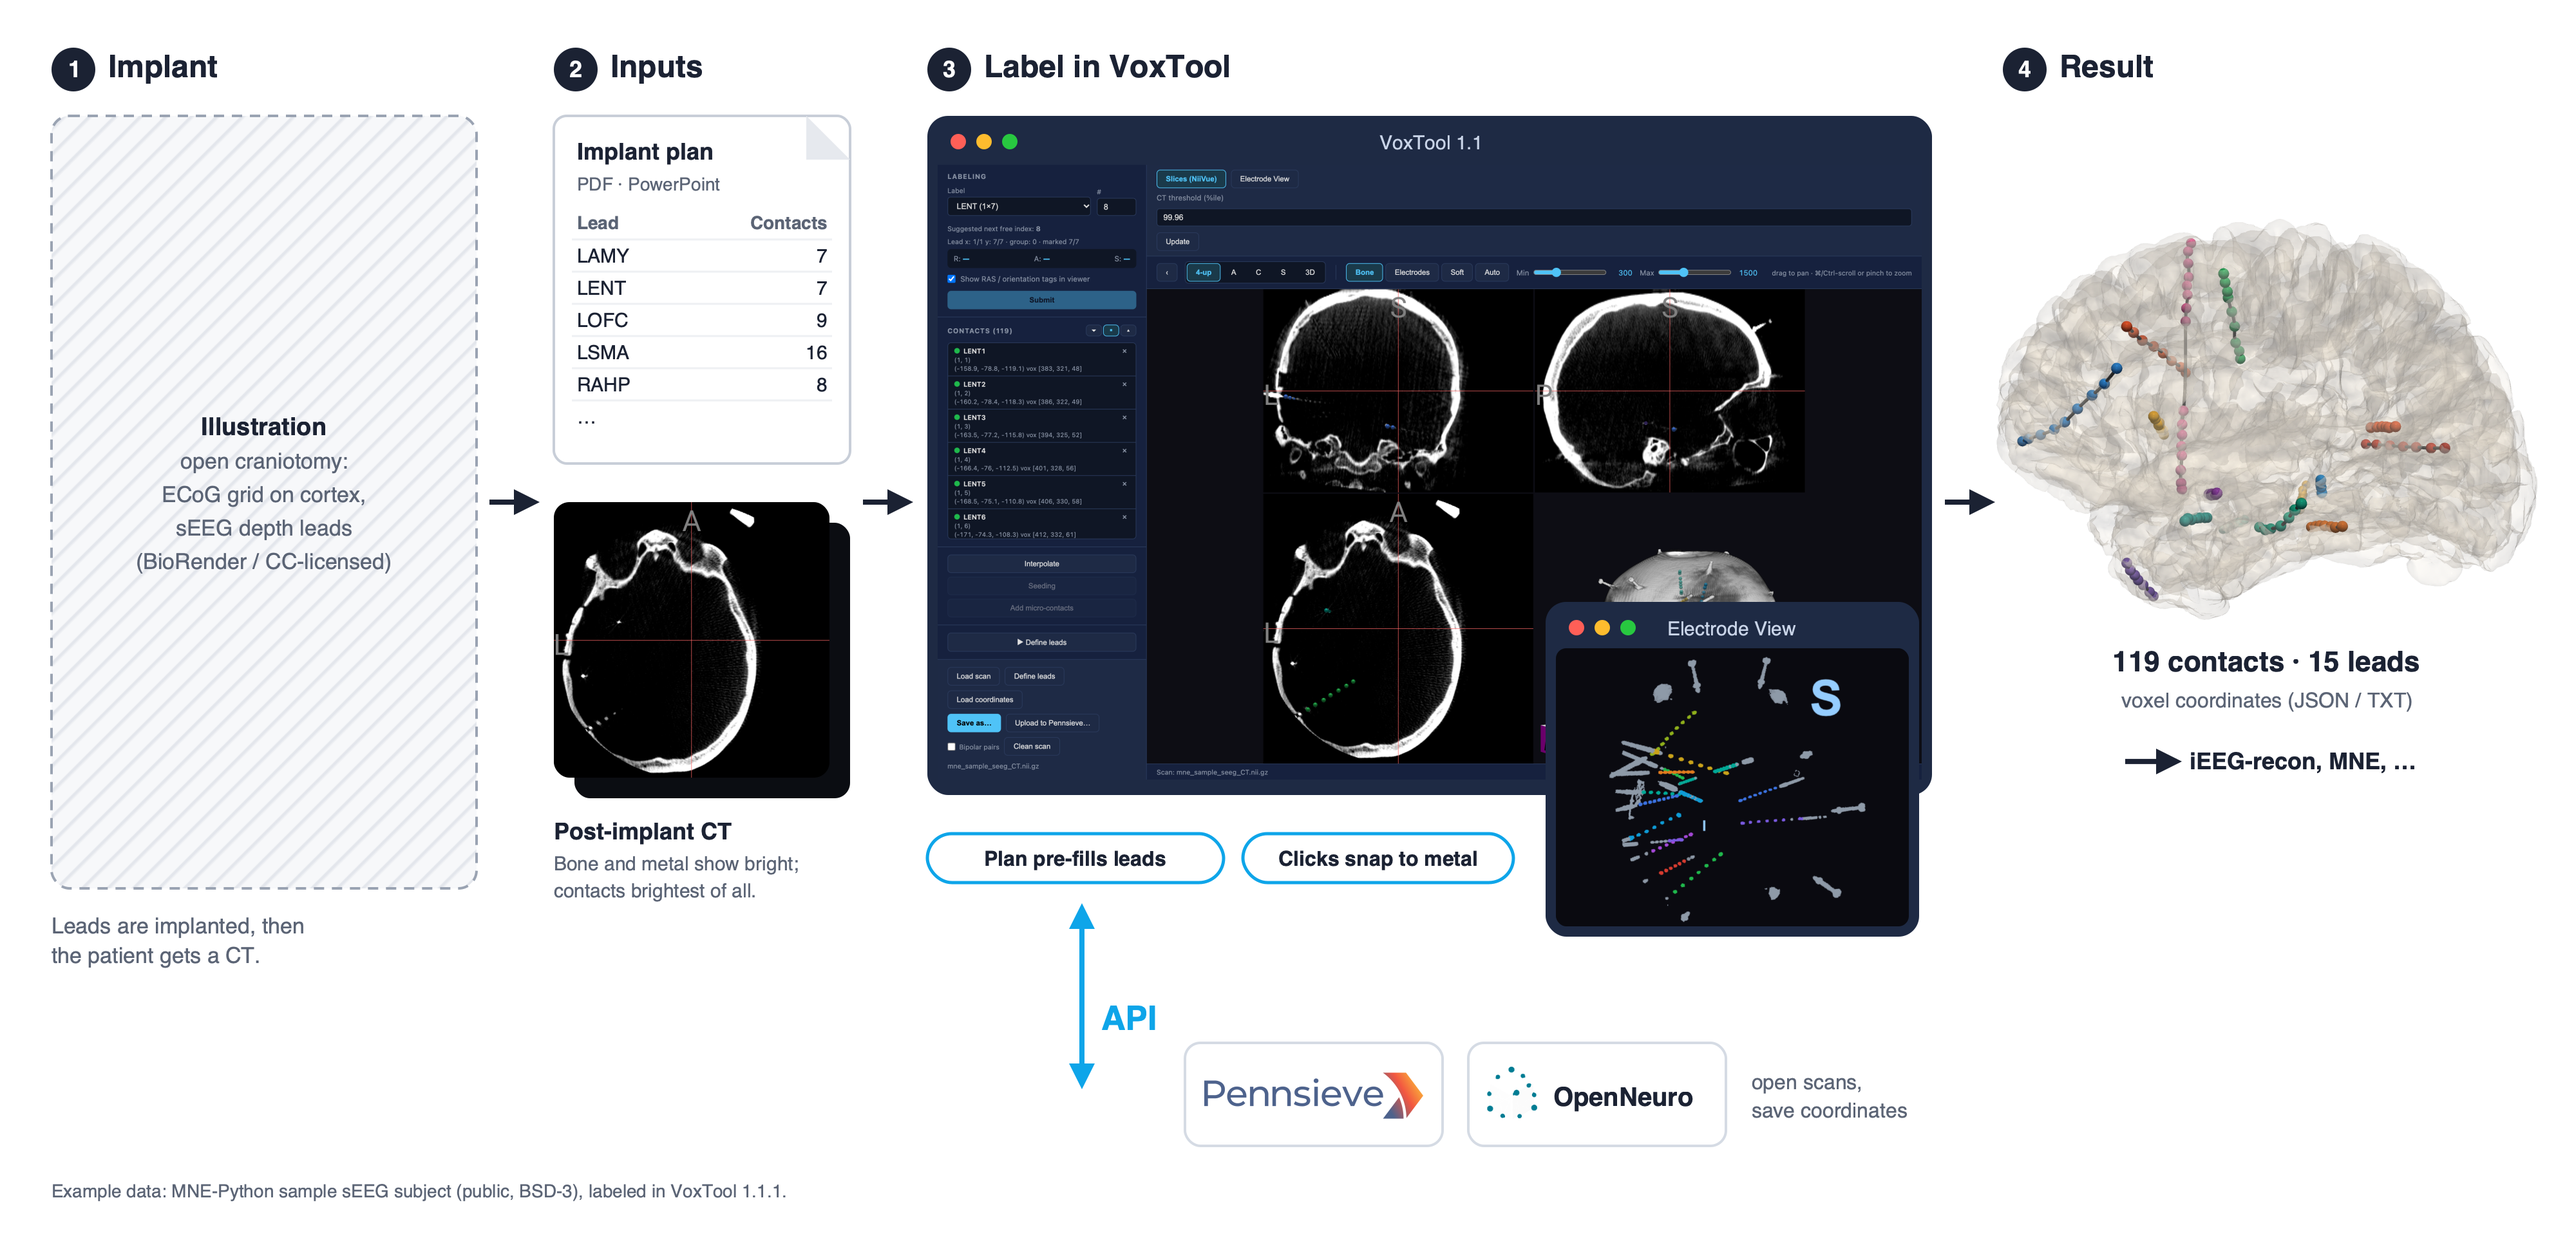
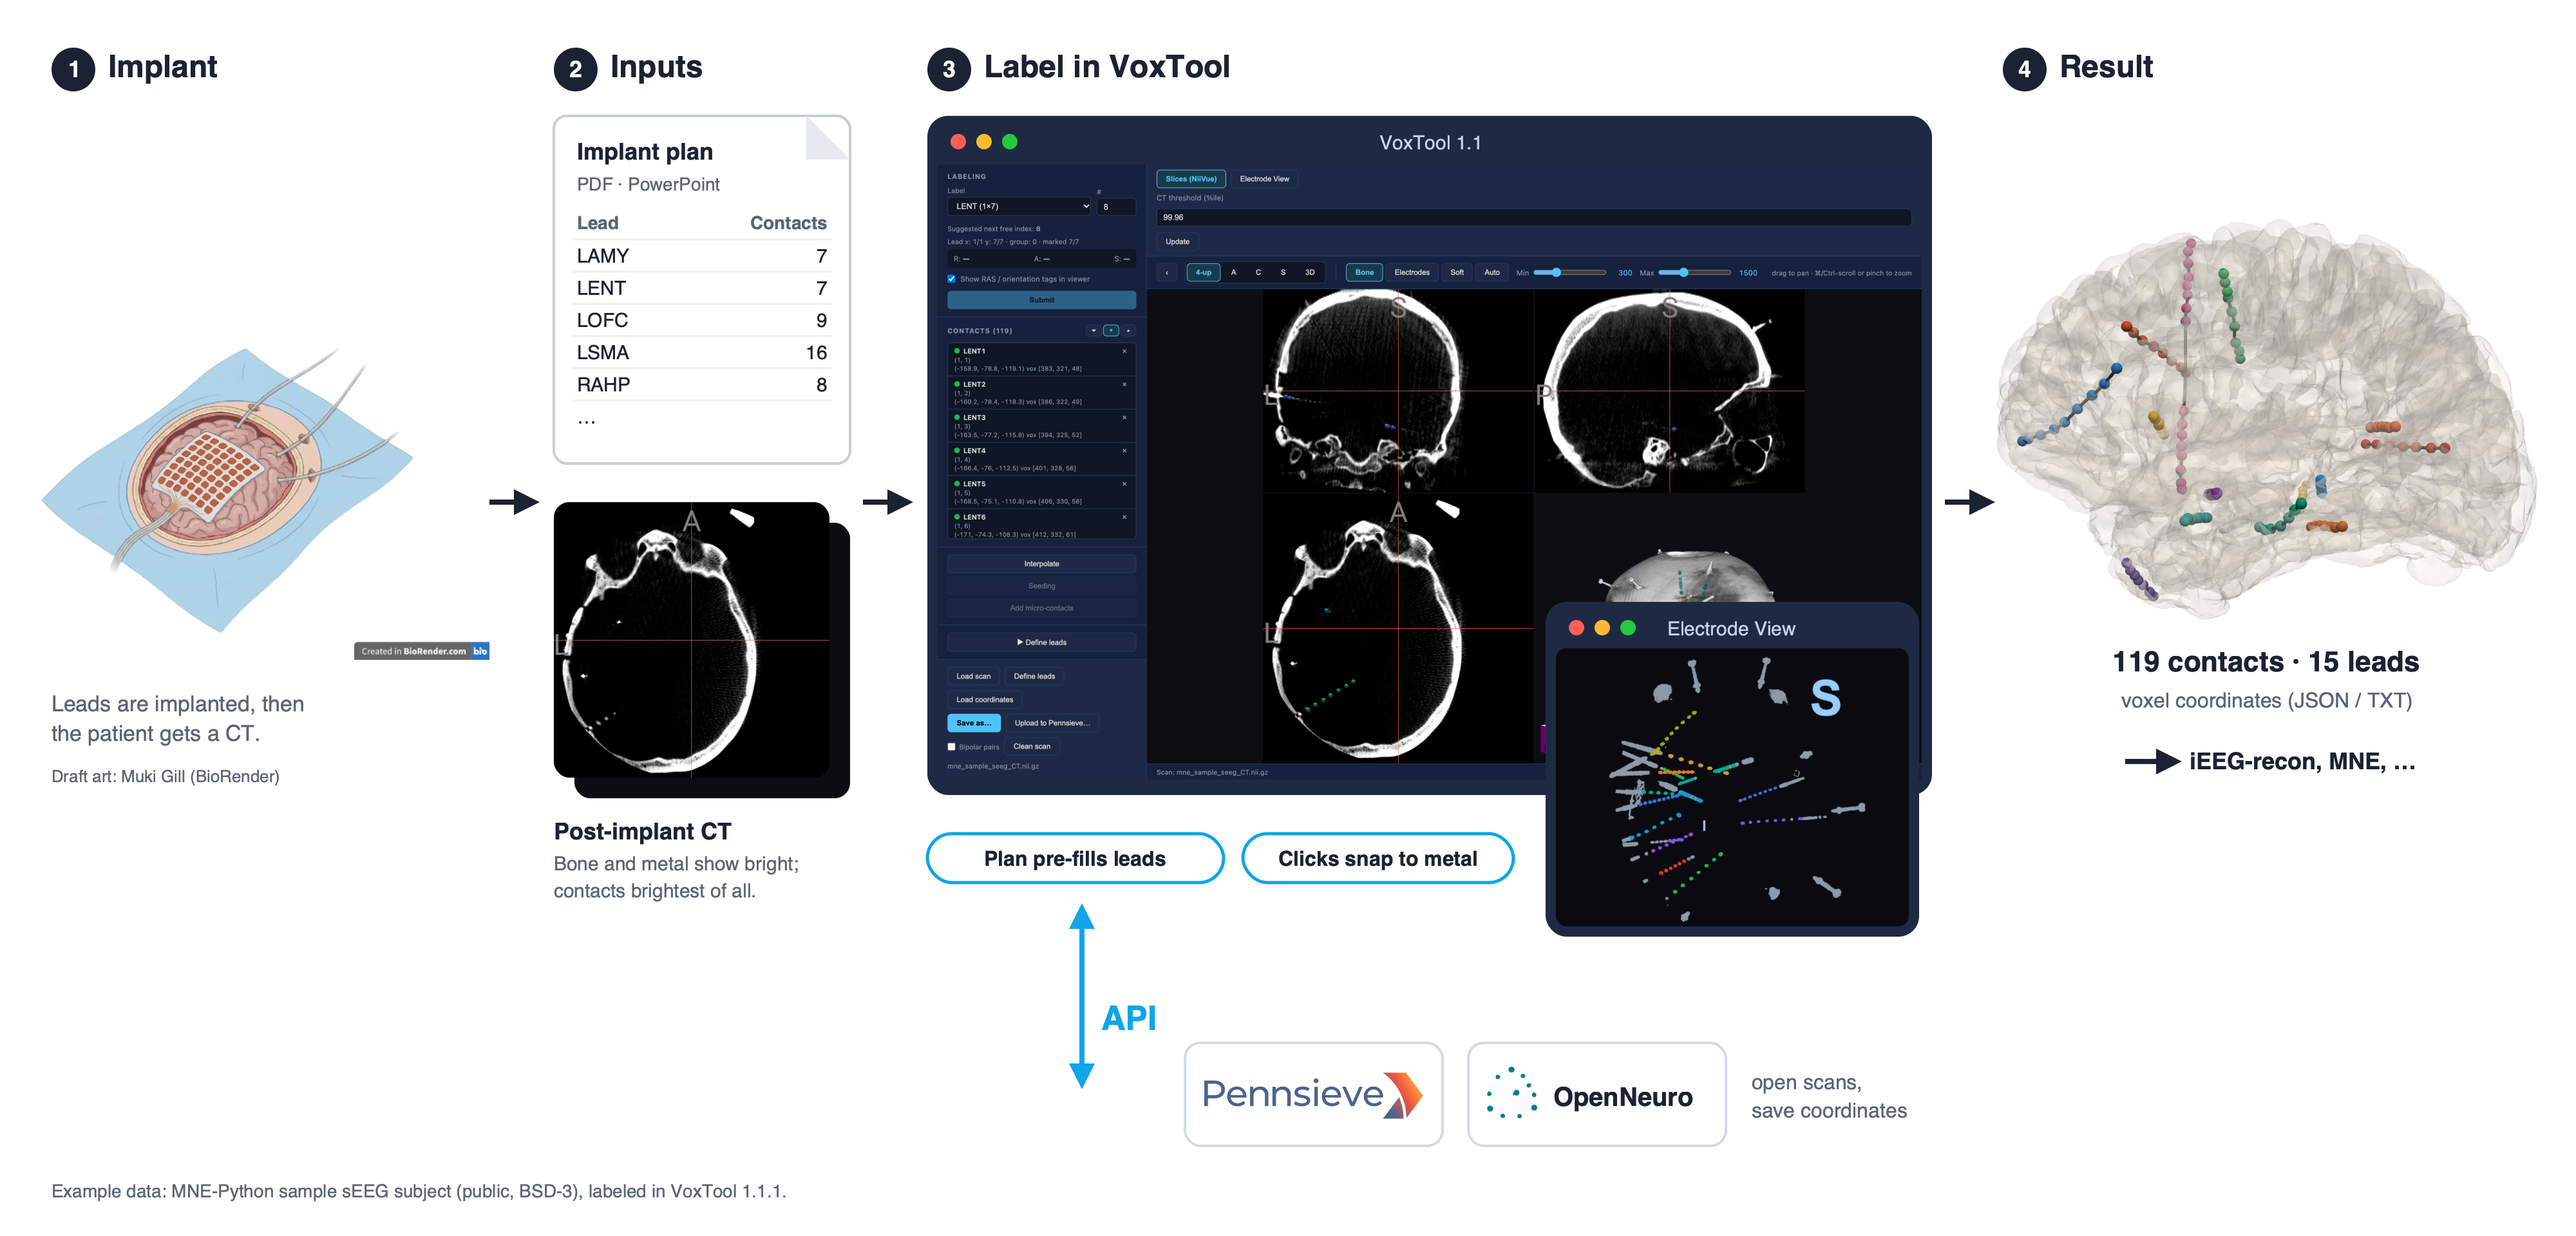
Put Muki's draft illustration in Figure 1 v2's first panel.
The image itself stays in the git-ignored fig1/private/ folder until the
BioRender licence is sorted; without it the script falls back to the
placeholder.

Changed region(s): [[0.0, 0.0938, 0.1875, 0.7812]]

diff --git a/paper/figures/fig1/scripts/compose_fig1_v2.py b/paper/figures/fig1/scripts/compose_fig1_v2.py
@@ -26,6 +26,25 @@ def logo_card(x, y, w, h, inner):
             f'stroke="#d5dbe4" stroke-width="2"/>' + inner)
 
 
+ILLUSTRATION = FIG / "private" / "muki_implant_draft.png"  # BioRender free tier: no licence yet, so git-ignored
+
+
+def implant_art():
+    """Muki's draft illustration when it is on this machine, otherwise the placeholder."""
+    if not ILLUSTRATION.exists():
+        return [placeholder(40, 90, 330, 600, ["Illustration", "open craniotomy:",
+                                               "ECoG grid on cortex,", "sEEG depth leads",
+                                               "(BioRender / CC-licensed)"]),
+                text(40, 725, "Leads are implanted, then", size=17, fill=MUTED),
+                text(40, 748, "the patient gets a CT.", size=17, fill=MUTED)]
+    w, h = 350, 350 * 504 / 720
+    y = 390 - h / 2
+    return [image("private/muki_implant_draft.png", 30, y, w, h, preserve="xMidYMid meet"),
+            text(40, y + h + 40, "Leads are implanted, then", size=17, fill=MUTED),
+            text(40, y + h + 63, "the patient gets a CT.", size=17, fill=MUTED),
+            text(40, y + h + 95, "Draft art: Muki Gill (BioRender)", size=13, fill=MUTED, italic=True)]
+
+
 def build():
     c = make_crops()
     W, H = 2000, 960
@@ -50,10 +69,7 @@ def build():
     parts += [
         '<g id="panel-1-implant">',
         heading(40, 60, 1, "Implant"),
-        placeholder(40, 90, 330, 600, ["Illustration", "open craniotomy:", "ECoG grid on cortex,",
-                                       "sEEG depth leads", "(BioRender / CC-licensed)"]),
-        text(40, 725, "Leads are implanted, then", size=17, fill=MUTED),
-        text(40, 748, "the patient gets a CT.", size=17, fill=MUTED),
+        *implant_art(),
         '</g>',
         arrow(380, 390, 415, 390),
     ]
